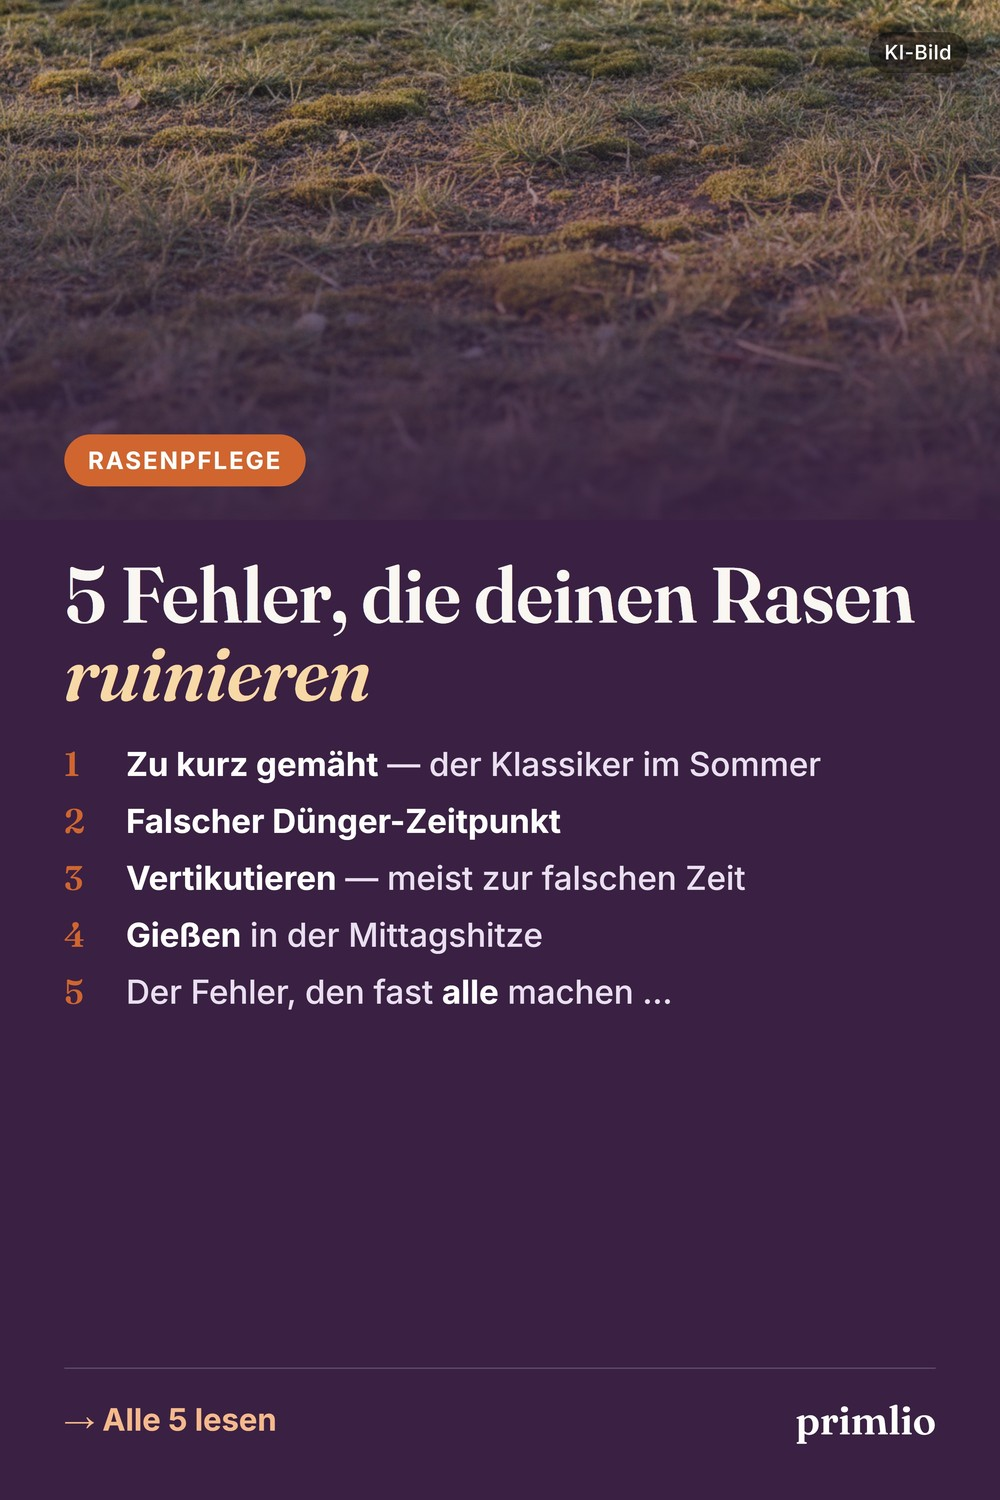
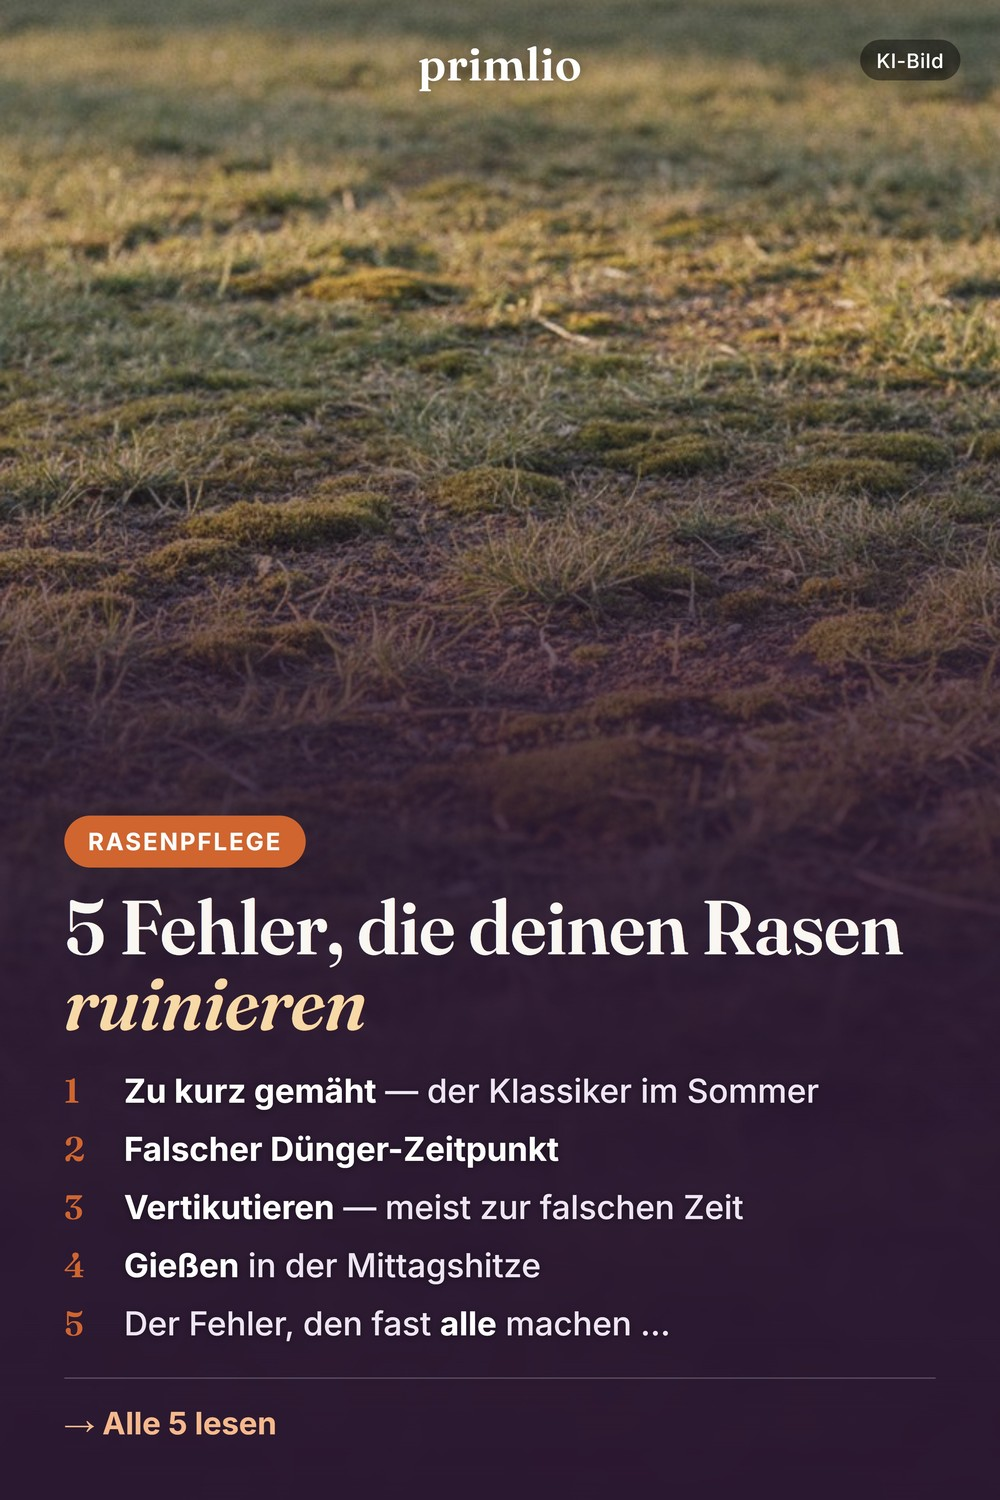
chore: primlio pin mockups - unified text-over-image + centered wordmark

diff --git a/primlio-pin-mockups/review.html b/primlio-pin-mockups/review.html
@@ -59,7 +59,7 @@
 <header>
   <div class="wm">primlio</div>
   <h1>Pin-Design Review</h1>
-  <p><b>Runde 6 — Layout-VIELFALT.</b> ①–⑦ = die Formate. ⑧–⑪ zeigen: dieselben Formate gehen in <b>verschiedenen Kompositionen</b> — Vorher/Nachher vertikal-diagonal (⑧) oder Bild-im-Bild (⑨), Collage asymmetrisch (⑩), Steps als Filmstrip (⑪). Ziel: die Pipeline würfelt Layouts, damit nichts statisch aussieht. Markiere was dir gefällt (⭐) + Notizen → „Feedback kopieren" → im Chat.</p>
+  <p><b>Runde 7 — neuer Standard: Text läuft ins Bild + Wortmarke mittig oben.</b> ①④⑤⑥⑦ sind aktualisiert (kein Farbblock mehr, weicher Verlauf wie bei den Cover-Favoriten; „primlio" oben mittig). ②③ + ⑧–⑪ folgen derselben Regel im Bau. Markiere Favoriten (⭐) + Notizen → „Feedback kopieren" → im Chat.</p>
 </header>
 
 <div class="dir">
